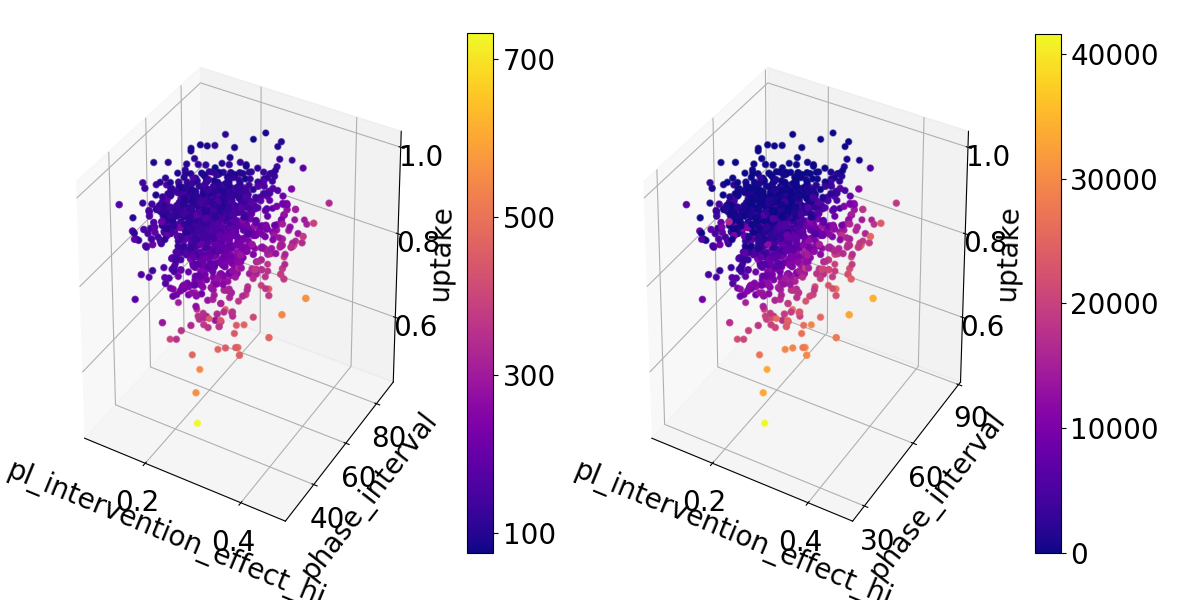
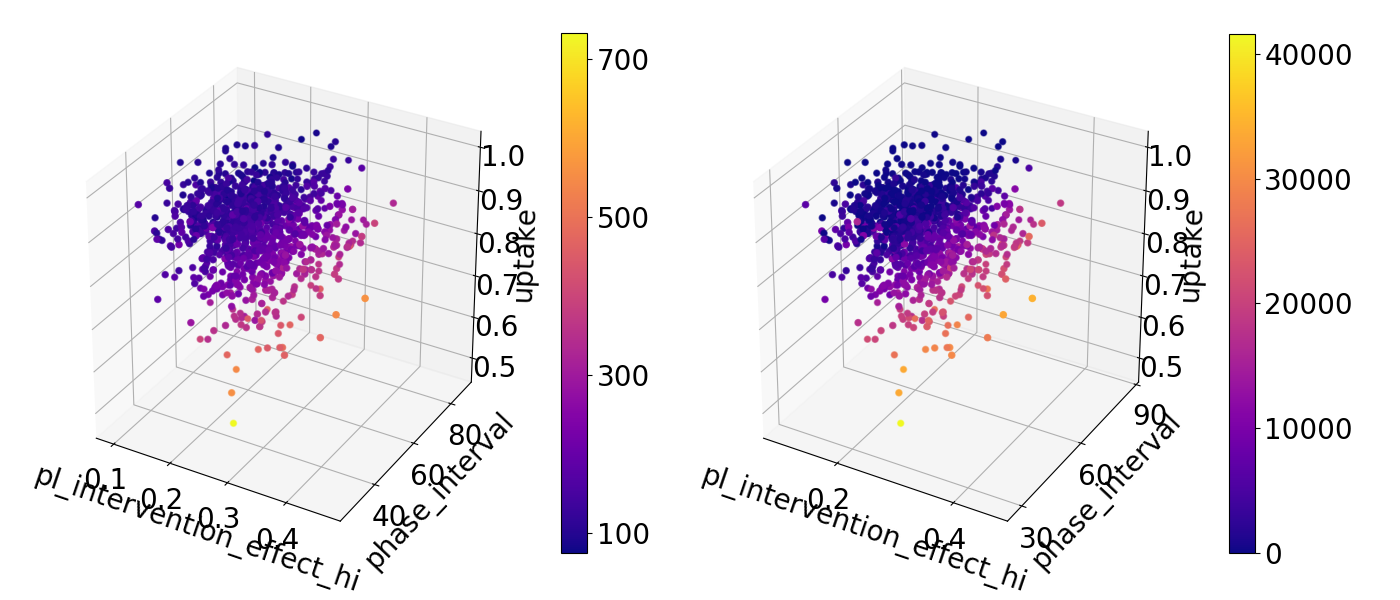
increase horizontal dimension of 3d plot

diff --git a/EasyVVUQ/heatmap_PO.py b/EasyVVUQ/heatmap_PO.py
@@ -194,7 +194,7 @@ f.savefig('figures/heatmap_PO_IC_ex.png')
 * 3D plots *
 """
 
-f = plt.figure('heatmap',figsize=[12,6])
+f = plt.figure('heatmap',figsize=[14,6])
 ax_p = f.add_subplot(121, xlabel='pl_intervention_effect_hi', ylabel='phase_interval', zlabel='uptake', projection='3d')
 im_p = ax_p.scatter(xs=pl_intervention_effect_hi, ys=phase_interval, zs=uptake, c=IC_prev_avg_max, cmap='plasma')
 cbar_p = f.colorbar(im_p, ax=ax_p)
